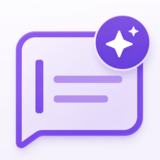
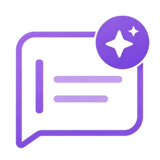
更换icon.png；优化折叠/展开动画过程；更新CHANGELOG、plugin.json

diff --git a/src/features/callout_fold.ts b/src/features/callout_fold.ts
@@ -7,22 +7,209 @@ export type CalloutFoldPluginLike = {
     syncBlock: (blockElement: HTMLElement, originalHtml?: string, reason?: "title" | "fold" | "type") => Promise<boolean>;
 };
 
+type FoldAnimationState = {
+    token: number;
+};
+
+type ChildSpacing = {
+    marginTop: string;
+    marginBottom: string;
+};
+
+const foldAnimationStates = new WeakMap<HTMLElement, FoldAnimationState>();
+
+function parseCssTimeToMs(value: string): number {
+    const v = value.trim();
+    if (!v) return 0;
+    if (v.endsWith("ms")) return Number.parseFloat(v) || 0;
+    if (v.endsWith("s")) return (Number.parseFloat(v) || 0) * 1000;
+    return Number.parseFloat(v) || 0;
+}
+
+function readFoldAnimationDurationMs(block: HTMLElement): number {
+    const style = window.getComputedStyle(block);
+    const fromVar = parseCssTimeToMs(style.getPropertyValue("--callout-fold-duration"));
+    return Math.max(0, fromVar);
+}
+
+function readFoldEasing(block: HTMLElement): string {
+    const style = window.getComputedStyle(block);
+    return style.getPropertyValue("--callout-fold-easing").trim() || "cubic-bezier(.25, .8, .25, 1)";
+}
+
+function getFoldAnimatedChildren(block: HTMLElement): HTMLElement[] {
+    return Array.from(block.children).filter((child) => !child.classList.contains("callout-info")) as HTMLElement[];
+}
+
+function getAnimationState(block: HTMLElement): FoldAnimationState {
+    const current = foldAnimationStates.get(block);
+    if (current) return current;
+    const next = { token: 0 };
+    foldAnimationStates.set(block, next);
+    return next;
+}
+
+function readChildSpacing(children: HTMLElement[]): ChildSpacing[] {
+    return children.map((child) => {
+        const style = window.getComputedStyle(child);
+        return {
+            marginTop: style.marginTop,
+            marginBottom: style.marginBottom,
+        };
+    });
+}
+
+function getFoldCollapsedTargetHeight(block: HTMLElement): number {
+    const title = block.querySelector(".callout-info") as HTMLElement | null;
+    if (!title) return block.getBoundingClientRect().height;
+
+    const blockStyle = window.getComputedStyle(block);
+    const titleStyle = window.getComputedStyle(title);
+    const paddingTop = Number.parseFloat(blockStyle.paddingTop) || 0;
+    const paddingBottom = Number.parseFloat(blockStyle.paddingBottom) || 0;
+    const titleHeight = title.getBoundingClientRect().height;
+    const titleMarginTop = Number.parseFloat(titleStyle.marginTop) || 0;
+    const titleMarginBottom = Number.parseFloat(titleStyle.marginBottom) || 0;
+    return paddingTop + titleMarginTop + titleHeight + titleMarginBottom + paddingBottom;
+}
+
+function keepChildrenVisible(children: HTMLElement[], spacing: ChildSpacing[]) {
+    for (let i = 0; i < children.length; i += 1) {
+        const child = children[i];
+        child.style.setProperty("max-height", "none", "important");
+        child.style.setProperty("margin-top", spacing[i]?.marginTop || "0px", "important");
+        child.style.setProperty("margin-bottom", spacing[i]?.marginBottom || "0px", "important");
+    }
+}
+
+function preventFlexShrink(block: HTMLElement, children: HTMLElement[]) {
+    const title = block.querySelector(".callout-info") as HTMLElement | null;
+    title?.style.setProperty("flex-shrink", "0", "important");
+    for (const child of children) {
+        child.style.setProperty("flex-shrink", "0", "important");
+    }
+}
+
+function clearChildOverrides(children: HTMLElement[]) {
+    for (const child of children) {
+        child.style.removeProperty("max-height");
+        child.style.removeProperty("margin-top");
+        child.style.removeProperty("margin-bottom");
+        child.style.removeProperty("flex-shrink");
+    }
+}
+
+function clearAnimationOverrides(block: HTMLElement, children: HTMLElement[]) {
+    const title = block.querySelector(".callout-info") as HTMLElement | null;
+    title?.style.removeProperty("flex-shrink");
+    clearChildOverrides(children);
+    block.style.removeProperty("height");
+    block.style.removeProperty("overflow");
+    block.style.removeProperty("transition");
+    block.style.removeProperty("will-change");
+}
+
+function setBlockHeightWithoutTransition(block: HTMLElement, height: number) {
+    block.style.setProperty("transition", "none", "important");
+    block.style.setProperty("height", `${height}px`, "important");
+    block.style.setProperty("overflow", "hidden", "important");
+    block.style.setProperty("will-change", "height");
+}
+
+function animateBlockHeight(block: HTMLElement, height: number, durationMs: number, easing: string) {
+    block.style.setProperty("transition", `height ${durationMs}ms ${easing}`, "important");
+    block.style.setProperty("height", `${height}px`, "important");
+}
+
+function waitBlockTransitionEnd(block: HTMLElement, durationMs: number, state: FoldAnimationState, token: number): Promise<boolean> {
+    return new Promise((resolve) => {
+        if (durationMs <= 0) {
+            resolve(state.token === token);
+            return;
+        }
+
+        let done = false;
+        let fallback = 0;
+        const cleanup = () => {
+            block.removeEventListener("transitionend", onTransitionEnd, true);
+            window.clearTimeout(fallback);
+        };
+        const finish = () => {
+            if (done) return;
+            done = true;
+            cleanup();
+            resolve(state.token === token);
+        };
+        const onTransitionEnd = (event: Event) => {
+            const e = event as TransitionEvent;
+            if (e.target === block && e.propertyName === "height") finish();
+        };
+
+        block.addEventListener("transitionend", onTransitionEnd, true);
+        fallback = window.setTimeout(finish, durationMs + 80);
+    });
+}
+
+async function animateBodyHeight(block: HTMLElement, fold: boolean): Promise<boolean> {
+    const state = getAnimationState(block);
+    const token = state.token + 1;
+    state.token = token;
+
+    const children = getFoldAnimatedChildren(block);
+    const durationMs = readFoldAnimationDurationMs(block);
+    const easing = readFoldEasing(block);
+    const currentHeight = block.getBoundingClientRect().height;
+
+    if (children.length === 0) {
+        if (fold) block.setAttribute("fold", "1");
+        else block.removeAttribute("fold");
+        return true;
+    }
+
+    setBlockHeightWithoutTransition(block, currentHeight);
+    preventFlexShrink(block, children);
+
+    if (fold) {
+        const spacing = readChildSpacing(children);
+        keepChildrenVisible(children, spacing);
+        block.offsetHeight;
+
+        block.setAttribute("fold", "1");
+        preventFlexShrink(block, children);
+        keepChildrenVisible(children, spacing);
+        animateBlockHeight(block, getFoldCollapsedTargetHeight(block), durationMs, easing);
+    } else {
+        block.offsetHeight;
+        block.removeAttribute("fold");
+        clearChildOverrides(children);
+        preventFlexShrink(block, children);
+        block.offsetHeight;
+        animateBlockHeight(block, block.scrollHeight, durationMs, easing);
+    }
+
+    const completed = await waitBlockTransitionEnd(block, durationMs, state, token);
+    if (completed) clearAnimationOverrides(block, children);
+    return completed;
+}
+
 export async function setFoldState(plugin: CalloutFoldPluginLike, block: HTMLElement | null, fold: boolean) {
     if (!block || !block.dataset.nodeId) return false;
     const blockId = block.dataset.nodeId;
     try {
         const previousFold = block.getAttribute("fold");
         const originalHtml = block.outerHTML;
-        if (fold) block.setAttribute("fold", "1");
-        else block.removeAttribute("fold");
 
         debugLog(`[${fold ? "Fold" : "Unfold"}] Callout block`, blockId);
+
+        const completed = await animateBodyHeight(block, fold);
+        if (!completed || !block.isConnected) return true;
 
         const ok = await plugin.syncBlock(block, originalHtml, "fold");
         if (ok) return true;
 
         if (previousFold === null) block.removeAttribute("fold");
         else block.setAttribute("fold", previousFold);
+        clearAnimationOverrides(block, getFoldAnimatedChildren(block));
         return false;
     } catch (err) {
         const action = fold ? "Fold" : "Unfold";

diff --git a/src/index.scss b/src/index.scss
@@ -1,10 +1,5 @@
 /* Callout块样式优化——修改基础和折叠样式 */
-/* version 0.0.6 */
-/* 0.0.6 解除Asri主题对callout标题强制大写的限制，恢复原始大小写显示 */
-/* 0.0.5 修复列表块/非列表块中的callout块的标题输入区域长度不一致问题 */
-/* 0.0.4 修复列表块中的callout宽度异常问题；优化callout块的icon+标题的整体位置，增大callout正文子块边界与callout边界的距离 */
-/* 0.0.3 约束callout在flex容器里的拉伸，避免它的展开/折叠高度受到在水平布局超级块中同级块高度的影响 */
-/* 0.0.2 优化callout折叠/展开状态下的标题与icon位置，防止抖动；增加折叠/展开动作的上拉/下拉动画 */
+
 
 :root[data-theme-mode="dark"] {
     --callout-bg-mix: transparent 85%;
@@ -17,9 +12,7 @@
 }
 
 .callout[data-type="NodeCallout"] {
-    /* max-height 折叠动画无法在「展开」态使用 none，须用足够大的有限值，避免正文被裁切 */
-    --callout-body-expanded-max-height: 999999px;
-    --callout-fold-duration: 140ms;
+    --callout-fold-duration: 180ms;        /* callout折叠/展开动画时长 */
     --callout-fold-easing: cubic-bezier(.25, .8, .25, 1);
     padding-top: 10px;
     padding-right: 0px;
@@ -94,36 +87,18 @@
         }
     }
 
-    /* 正文区域动画：避免折叠/展开时头部位置跳动 */
+    /* 正文静态态由 CSS 兜底，折叠/展开动画过程由 callout_fold.ts 接管外层高度裁切 */
     &>*:not(:first-child) {
         overflow: hidden;
-        max-height: var(--callout-body-expanded-max-height);
-        transition:
-            max-height var(--callout-fold-duration) var(--callout-fold-easing),
-            margin-top 0s linear 0s,
-            margin-bottom 0s linear 0s;
-        will-change: max-height;
+        max-height: none;
     }
 
-    /* 折叠样式 */
+    /* 折叠态仅保留静态兜底，避免刷新/重载后正文短暂露出；动画过程不依赖此处 */
     &[fold="1"] {
-        /* 折叠态保持与展开态相同的布局特性，避免视觉跳动 */
-        /* 保留必要的覆盖项，避免重复声明基础样式（如 display、padding 已在基类中定义） */
         height: auto !important;
         overflow: visible !important;
-        /* 与展开态保持视觉一致 */
         opacity: 1 !important;
         background-image: none !important;
-
-        /* 折叠态下，覆盖子块间距规则，确保标题上下间距对称 */
-        &>.callout-info~* {
-            margin-top: 0 !important;
-            margin-bottom: 0 !important;
-        }
-
-        &>.callout-info+* {
-            margin-top: 0 !important;
-        }
     }
 
     /* 水平布局超级块中的Callout块限制在交叉轴上向起始位置对齐，防止被拉伸或居中 */
@@ -141,11 +116,9 @@
     }
 
     &[fold="1"]>*:not(:first-child) {
-        transition:
-            max-height var(--callout-fold-duration) var(--callout-fold-easing),
-            margin-top 0s linear var(--callout-fold-duration),
-            margin-bottom 0s linear var(--callout-fold-duration);
         max-height: 0 !important;
+        margin-top: 0 !important;
+        margin-bottom: 0 !important;
         pointer-events: none;
     }
 
@@ -393,14 +366,14 @@
         max-width: calc(100% - (var(--callout-nested-gap) * 1.5));
     }
 
-    /* 标题与第一个正文子块之间的间距 */
+    /* 标题与第一个正文子块之间的间距。注意折叠/展开过程在这块和上面的margin-bottom的处理容易出现问题 */
     &>.callout-info+* {
         margin-top: calc(var(--callout-nested-gap) * 0.5);
     }
 
-    /* 最后一个正文子块的底部间距收敛，避免底边过厚 */
-    &>.callout-info~*:last-child {
-        margin-bottom: var(--callout-nested-gap);
-    }
+    // /* 最后一个正文子块底部与callout下边界的间距，似乎和.callout-info~中的margin-bottom是差不多的*/
+    // &>.callout-info~*:last-child {
+    //     margin-bottom: calc(var(--callout-nested-gap) * 1.5);
+    // }
 
 }

diff --git a/CHANGELOG.md b/CHANGELOG.md
@@ -1,3 +1,20 @@
+## v0.2.1 2026-05-17
+
+- 🇨🇳 修复callout标题区域能通过快捷键等方式唤出工具栏的问题
+- 🇨🇳 优化callout标题区域的 Ctrl+A 操作，限制只能全选对应标题文字
+- 🇨🇳 区分折叠/展开状态下的callout标题区域回车行为，现在折叠状态下的callout标题区域
+- 🇨🇳 优化callout正文区域的 Enter 逻辑，将callout正文为空且仅一个空行时的 Enter 由模拟 Backspace 转为模拟原生callout的 Enter
+- 🇨🇳 去除Asri主题中强制显示callout标题区域英文字母为大写形式的限制
+- 🇨🇳 更换icon.png
+- 🇨🇳 优化折叠/展开动画过程
+- 🇺🇸 Fix the issue where the callout title area can invoke the toolbar via keyboard shortcuts or other methods
+- 🇺🇸 Optimize the Ctrl+A operation in the callout title area to restrict it to only selecting the corresponding title text fully
+- 🇺🇸 Differentiate the Enter key behavior in the callout title area between collapsed and expanded states; currently for the collapsed state callout title area
+- 🇺🇸 Optimize the Enter key logic in the callout body area, changing the Enter behavior when the callout body is empty with only one blank line from simulating Backspace to simulating native callout Enter
+- 🇺🇸 Remove the restriction in the Asri theme that forces English letters in the callout title area to display in uppercase
+- 🇺🇸 Replace icon.png
+- 🇺🇸 Optimize the collapse/expand animation process
+
 ## v0.2.0 2026-05-15
 
 - 🇨🇳 重构插件代码，拆分`index.ts`实现程序的模块化，并通过core、features、utils文件夹分别保存不同类型程序文件
